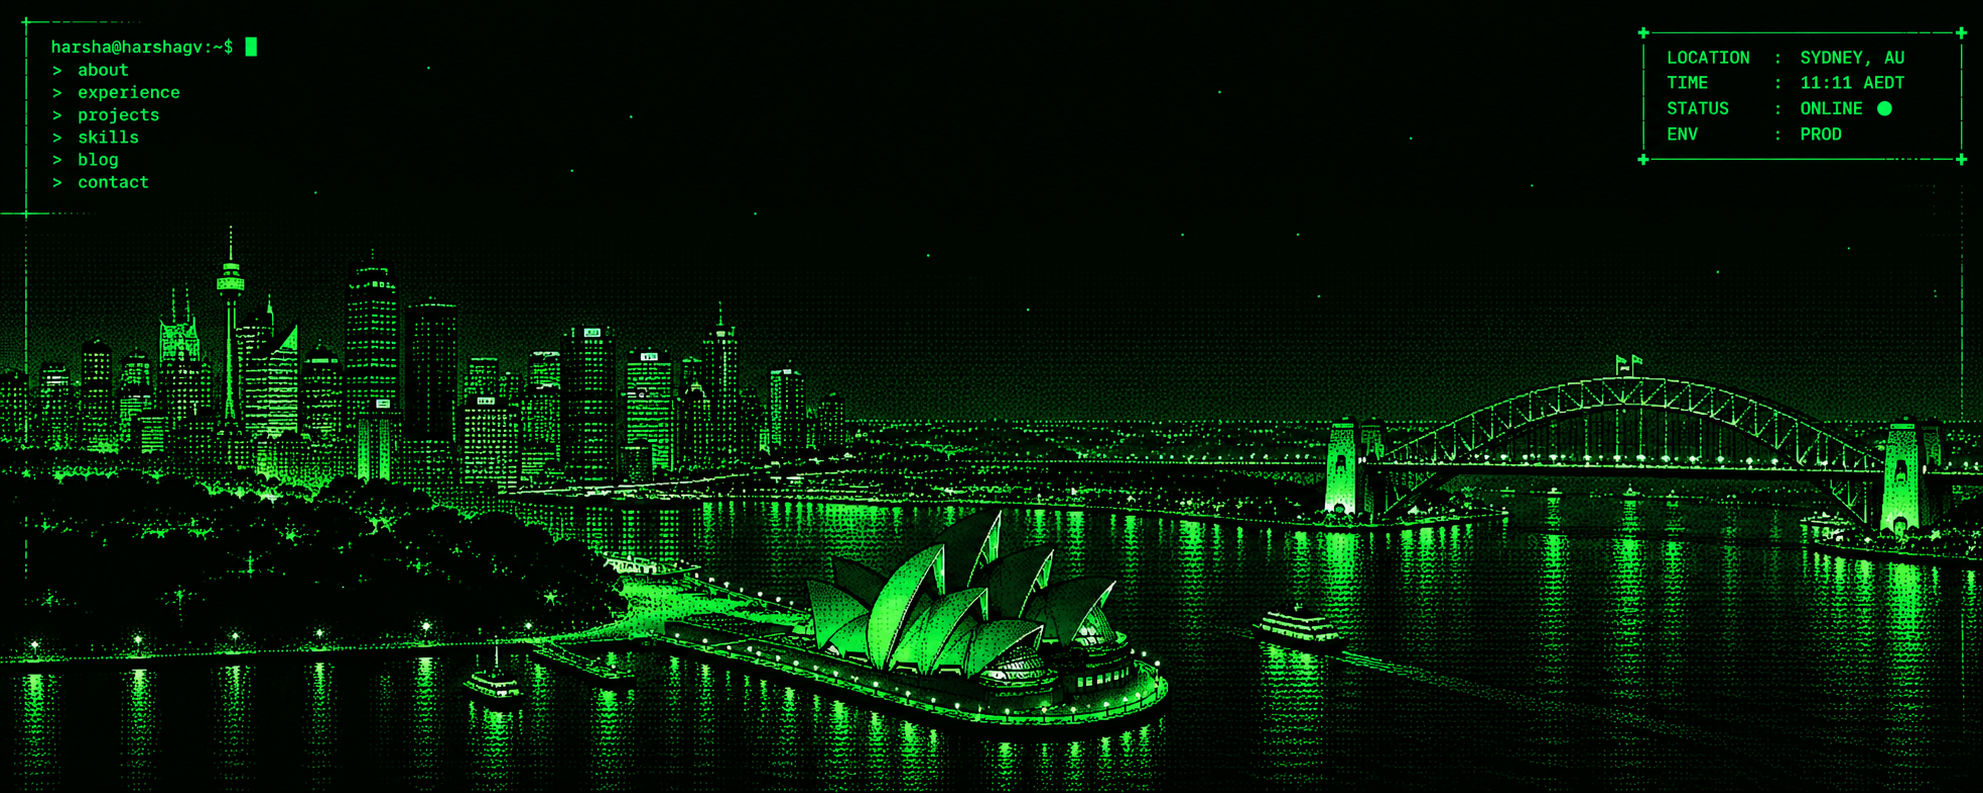
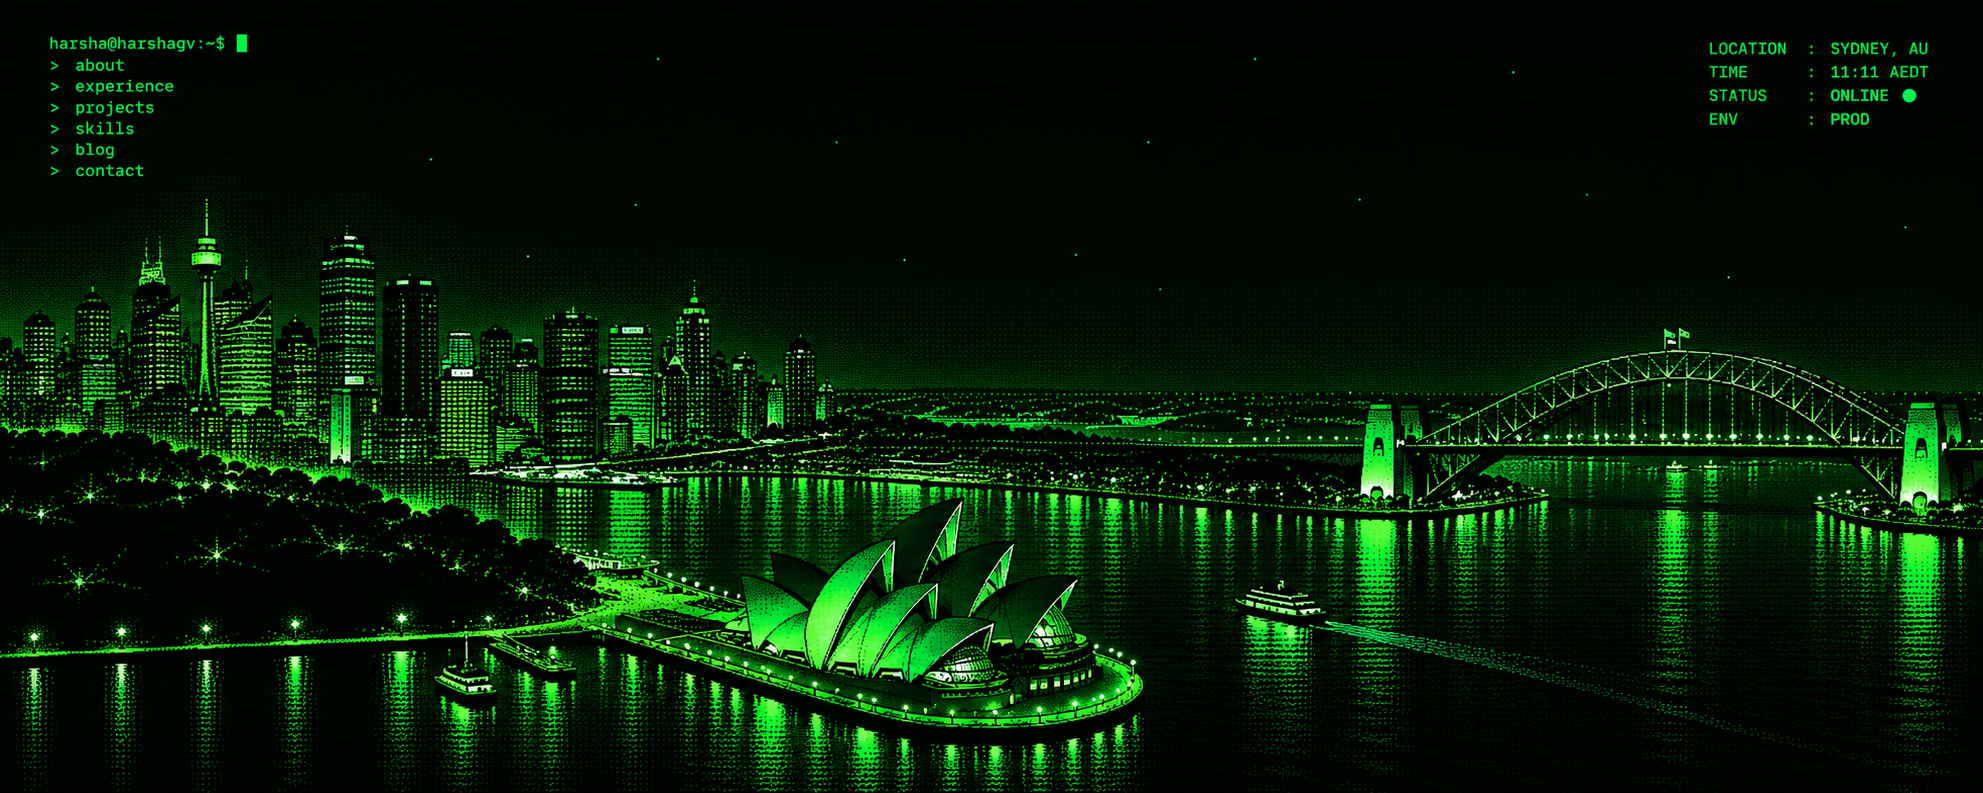
feat: add interactive dot-matrix scope reveal effect to footer harbour art

diff --git a/src/components/Footer.tsx b/src/components/Footer.tsx
@@ -1,4 +1,4 @@
-import React from 'react';
+import React, { useEffect, useRef } from 'react';
 import { Mail } from 'lucide-react';
 import MagneticButton from './MagneticButton';
 import FramerSplitText from './FramerSplitText';
@@ -15,18 +15,61 @@ const SOCIALS = [
 ];
 
 const Footer: React.FC = () => {
+  const footerRef = useRef<HTMLElement>(null);
+  const bandRef = useRef<HTMLDivElement>(null);
+
+  // Scope reveal: a soft lit circle follows the pointer over the harbour.
+  // Touch / no-hover devices keep it resting on the Opera House (CSS defaults).
+  useEffect(() => {
+    if (!window.matchMedia('(hover: hover)').matches) return;
+    const footer = footerRef.current, band = bandRef.current;
+    if (!footer || !band) return;
+    let raf = 0, x = 0, y = 0, inside = false;
+    const apply = () => {
+      raf = 0;
+      if (inside) {
+        band.classList.add('is-tracking');
+        band.style.setProperty('--mx', `${x}px`);
+        band.style.setProperty('--my', `${y}px`);
+      } else {
+        band.classList.remove('is-tracking');
+        band.style.removeProperty('--mx');
+        band.style.removeProperty('--my');
+      }
+    };
+    const onMove = (e: PointerEvent) => {
+      const r = band.getBoundingClientRect();
+      x = e.clientX - r.left; y = e.clientY - r.top;
+      inside = x >= 0 && y >= 0 && x <= r.width && y <= r.height;
+      if (!raf) raf = requestAnimationFrame(apply);
+    };
+    const onLeave = () => { inside = false; if (!raf) raf = requestAnimationFrame(apply); };
+    footer.addEventListener('pointermove', onMove);
+    footer.addEventListener('pointerleave', onLeave);
+    return () => {
+      footer.removeEventListener('pointermove', onMove);
+      footer.removeEventListener('pointerleave', onLeave);
+      if (raf) cancelAnimationFrame(raf);
+    };
+  }, []);
+
   return (
-    <footer id="contact" className="py-16 px-4 sm:px-6 md:px-8 pointer-events-auto">
+    <footer ref={footerRef} id="contact" className="py-16 px-4 sm:px-6 md:px-8 pointer-events-auto">
       <div className="max-w-[1290px] mx-auto">
+        {/* Terminal frame */}
         <div className="relative w-full rounded-2xl md:rounded-3xl border border-[var(--color-accent)]/25 bg-[#030704] shadow-[0_20px_50px_rgba(0,0,0,0.85),0_0_35px_rgba(0,255,102,0.06)] overflow-hidden group hover:border-[var(--color-accent)]/40 transition-colors duration-500">
 
           {/* Harbour viewport: a fixed-ratio window cropped onto the Opera House + Harbour Bridge.
               The image's own baked-in HUD (menu + info box, top 40%) is always cropped out. */}
-          <div className="relative w-full aspect-[2/1] md:aspect-[4/1] overflow-hidden select-none pointer-events-none">
-            <div
-              className="footer-harbour absolute inset-0 bg-no-repeat opacity-90 group-hover:opacity-100 transition-opacity duration-700"
-              style={{ backgroundImage: `url("${sydneyHarbourscape}")` }}
-            />
+          <div className="relative w-full aspect-[2/1] md:aspect-[4/1] max-h-[420px] overflow-hidden select-none pointer-events-none">
+            {/* Dot-matrix photo (same texture as the globe) + scope reveal */}
+            <div ref={bandRef} className="harbour-band absolute inset-0">
+              <div className="harbour-dots absolute inset-0">
+                <div className="footer-harbour harbour-base absolute inset-0 bg-no-repeat" style={{ backgroundImage: `url("${sydneyHarbourscape}")` }} />
+                <div className="footer-harbour harbour-scope absolute inset-0 bg-no-repeat" style={{ backgroundImage: `url("${sydneyHarbourscape}")` }} />
+              </div>
+              <div className="harbour-reticle" aria-hidden="true" />
+            </div>
             {/* Soft top vignette for the HUD labels, and a long fade into the content below */}
             <div className="absolute inset-x-0 top-0 h-1/3 bg-gradient-to-b from-[#030704]/70 to-transparent" />
             <div className="absolute inset-x-0 bottom-0 h-1/2 bg-gradient-to-b from-transparent to-[#030704]" />
@@ -35,7 +78,7 @@ const Footer: React.FC = () => {
               style={{ backgroundImage: 'linear-gradient(rgba(0, 255, 102, 0.5) 1px, transparent 0)', backgroundSize: '100% 4px' }}
             />
             {/* HUD */}
-            <div className="absolute inset-x-0 top-0 px-6 sm:px-10 lg:px-14 pt-5 md:pt-6 flex items-start justify-between font-mono [text-shadow:0_1px_8px_rgba(0,0,0,0.9)]">
+            <div className="absolute inset-x-0 top-0 max-w-[1290px] mx-auto px-6 sm:px-10 lg:px-14 pt-5 md:pt-6 flex items-start justify-between font-mono [text-shadow:0_1px_8px_rgba(0,0,0,0.9)]">
               <div className="flex flex-col gap-1">
                 <span className="text-[10px] md:text-[11px] tracking-[0.18em] text-[var(--color-accent)]">SYDNEY_NODE</span>
                 <span className="text-[10px] tracking-[0.12em] text-[#8fa89a]">33.8568°S 151.2153°E</span>
@@ -43,17 +86,16 @@ const Footer: React.FC = () => {
               <NodeClock />
             </div>
           </div>
-
           {/* Top edge glow, sweep and frame corners */}
           <div className="absolute top-0 left-0 right-0 h-[1px] bg-gradient-to-r from-transparent via-[var(--color-accent)]/50 to-transparent pointer-events-none" />
           <div className="footer-sweep" aria-hidden="true" />
-          <span className="absolute top-3 left-3.5 font-mono text-[11px] text-[var(--color-accent)]/40 select-none pointer-events-none font-bold">┌</span>
-          <span className="absolute top-3 right-3.5 font-mono text-[11px] text-[var(--color-accent)]/40 select-none pointer-events-none font-bold">┐</span>
-          <span className="absolute bottom-3 left-3.5 font-mono text-[11px] text-[var(--color-accent)]/40 select-none pointer-events-none font-bold">└</span>
-          <span className="absolute bottom-3 right-3.5 font-mono text-[11px] text-[var(--color-accent)]/40 select-none pointer-events-none font-bold">┘</span>
+          <span className="absolute top-3 left-3.5 z-20 font-mono text-[11px] text-[var(--color-accent)]/40 select-none pointer-events-none font-bold">┌</span>
+          <span className="absolute top-3 right-3.5 z-20 font-mono text-[11px] text-[var(--color-accent)]/40 select-none pointer-events-none font-bold">┐</span>
+          <span className="absolute bottom-3 left-3.5 z-20 font-mono text-[11px] text-[var(--color-accent)]/40 select-none pointer-events-none font-bold">└</span>
+          <span className="absolute bottom-3 right-3.5 z-20 font-mono text-[11px] text-[var(--color-accent)]/40 select-none pointer-events-none font-bold">┘</span>
 
           {/* Footer text + socials */}
-          <div className="relative z-10 -mt-1 md:-mt-3 px-6 sm:px-10 lg:px-14 pb-5 md:pb-3 flex flex-col md:flex-row items-center justify-between gap-8 md:gap-12">
+          <div className="relative z-10 max-w-[1290px] mx-auto -mt-1 md:-mt-3 px-6 sm:px-10 lg:px-14 pb-5 md:pb-3 flex flex-col md:flex-row items-center justify-between gap-8 md:gap-12">
             <div className="flex-1 min-w-0 text-center md:text-left">
               <FramerSplitText
                 text={`© ${new Date().getFullYear()} Harsha G V · Built like a hardened container image · No plaintext secrets, ever.`}
@@ -89,9 +131,9 @@ const Footer: React.FC = () => {
           </div>
 
           {/* Handshake status strip */}
-          <div className="relative z-10 mx-6 sm:mx-10 lg:mx-14 border-t border-[var(--color-accent)]/15 py-5 flex justify-center">
+          <div className="relative z-10 max-w-[1290px] mx-auto px-6 sm:px-10 lg:px-14"><div className="border-t border-[var(--color-accent)]/15 py-5 flex justify-center">
             <TcpHandshake />
-          </div>
+          </div></div>
         </div>
       </div>
     </footer>

diff --git a/src/index.css b/src/index.css
@@ -96,6 +96,38 @@ html.lenis, html.lenis body {
 .footer-harbour { background-size: 330% auto; background-position: 54% 86%; }
 @media (min-width: 768px) { .footer-harbour { background-size: 125.5% auto; background-position: 100% 82%; } }
 
+/* Footer › Dot-matrix photo + Scope reveal
+   The photo is drawn through a 4px dot grid (same texture as the 3D globe), which
+   roughly halves its average brightness. A dim base layer shows everywhere; a brighter
+   copy is revealed inside a soft circle that follows the pointer (rests on the Opera House). */
+@property --mx { syntax: '<length-percentage>'; inherits: true; initial-value: 42%; }
+@property --my { syntax: '<length-percentage>'; inherits: true; initial-value: 62%; }
+@property --sr { syntax: '<length>'; inherits: true; initial-value: 130px; }
+.harbour-band { --mx: 42%; --my: 62%; --sr: 130px;
+  transition: --mx .7s cubic-bezier(.2,.8,.2,1), --my .7s cubic-bezier(.2,.8,.2,1), --sr .4s ease-out; }
+.harbour-band.is-tracking { --sr: 170px; transition: --mx .12s linear, --my .12s linear, --sr .4s ease-out; }
+@media (max-width: 767px) { .harbour-band { --mx: 45%; --my: 60%; --sr: 90px; } }
+.harbour-dots {
+  -webkit-mask: radial-gradient(circle, #000 1.35px, transparent 1.75px) 0 0 / 4px 4px;
+          mask: radial-gradient(circle, #000 1.35px, transparent 1.75px) 0 0 / 4px 4px; }
+.harbour-base { filter: brightness(.7) saturate(.75); }
+.harbour-scope { filter: brightness(1.25) saturate(1);
+  -webkit-mask: radial-gradient(circle var(--sr) at var(--mx) var(--my), #000 0%, rgb(0 0 0 / .55) 45%, transparent 100%);
+          mask: radial-gradient(circle var(--sr) at var(--mx) var(--my), #000 0%, rgb(0 0 0 / .55) 45%, transparent 100%); }
+.harbour-reticle { position: absolute; left: var(--mx); top: var(--my); width: calc(var(--sr) * 2); height: calc(var(--sr) * 2);
+  transform: translate(-50%, -50%); border-radius: 50%; pointer-events: none;
+  border: 1px solid rgb(0 255 102 / .14); box-shadow: inset 0 0 40px rgb(0 255 102 / .05); opacity: .6; transition: opacity .3s; }
+.harbour-band.is-tracking .harbour-reticle { opacity: 1; }
+/* "Eyes adjusting": the whole band brightens as the footer scrolls into view (Chrome/Edge; others stay at rest) */
+@supports (animation-timeline: view()) {
+  .harbour-dots { animation: harbour-dawn linear both; animation-timeline: view(); animation-range: entry 0% cover 45%; }
+  @keyframes harbour-dawn { from { filter: brightness(.35); } to { filter: brightness(1); } }
+}
+@media (prefers-reduced-motion: reduce) {
+  .harbour-dots { animation: none; }
+  .harbour-band, .harbour-band.is-tracking { transition: none; }
+}
+
 /* Footer › social icons tinted mint to match the green harbour art */
 .footer-icon { opacity: .75; filter: invert(1) sepia(1) saturate(2.2) hue-rotate(80deg) brightness(.95); transition: opacity .3s, filter .3s; }
 .footer-icon:hover { opacity: 1; filter: invert(1) sepia(1) saturate(2.2) hue-rotate(80deg) brightness(1.1) drop-shadow(0 0 8px #00ff66); }
